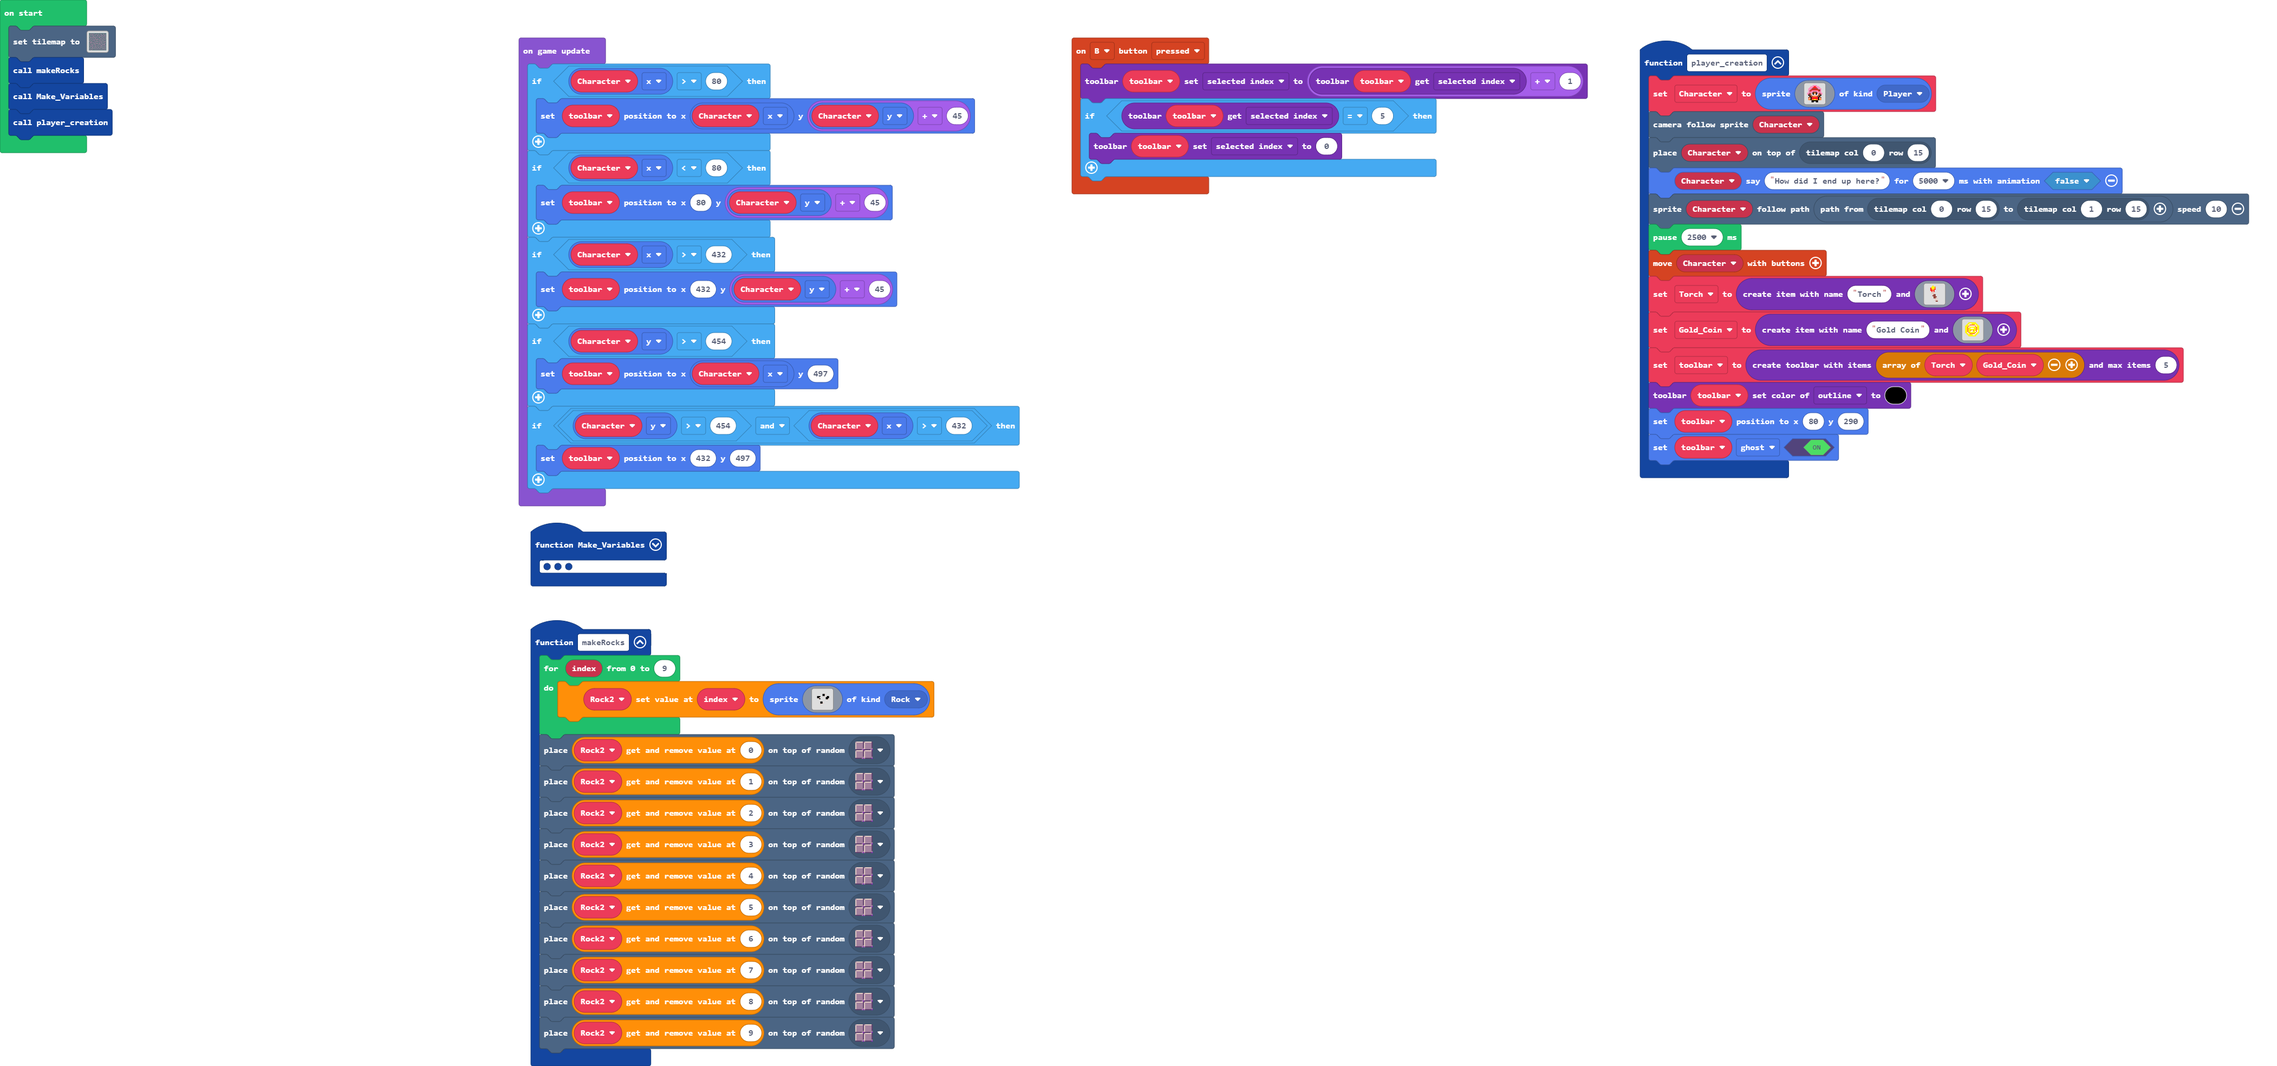
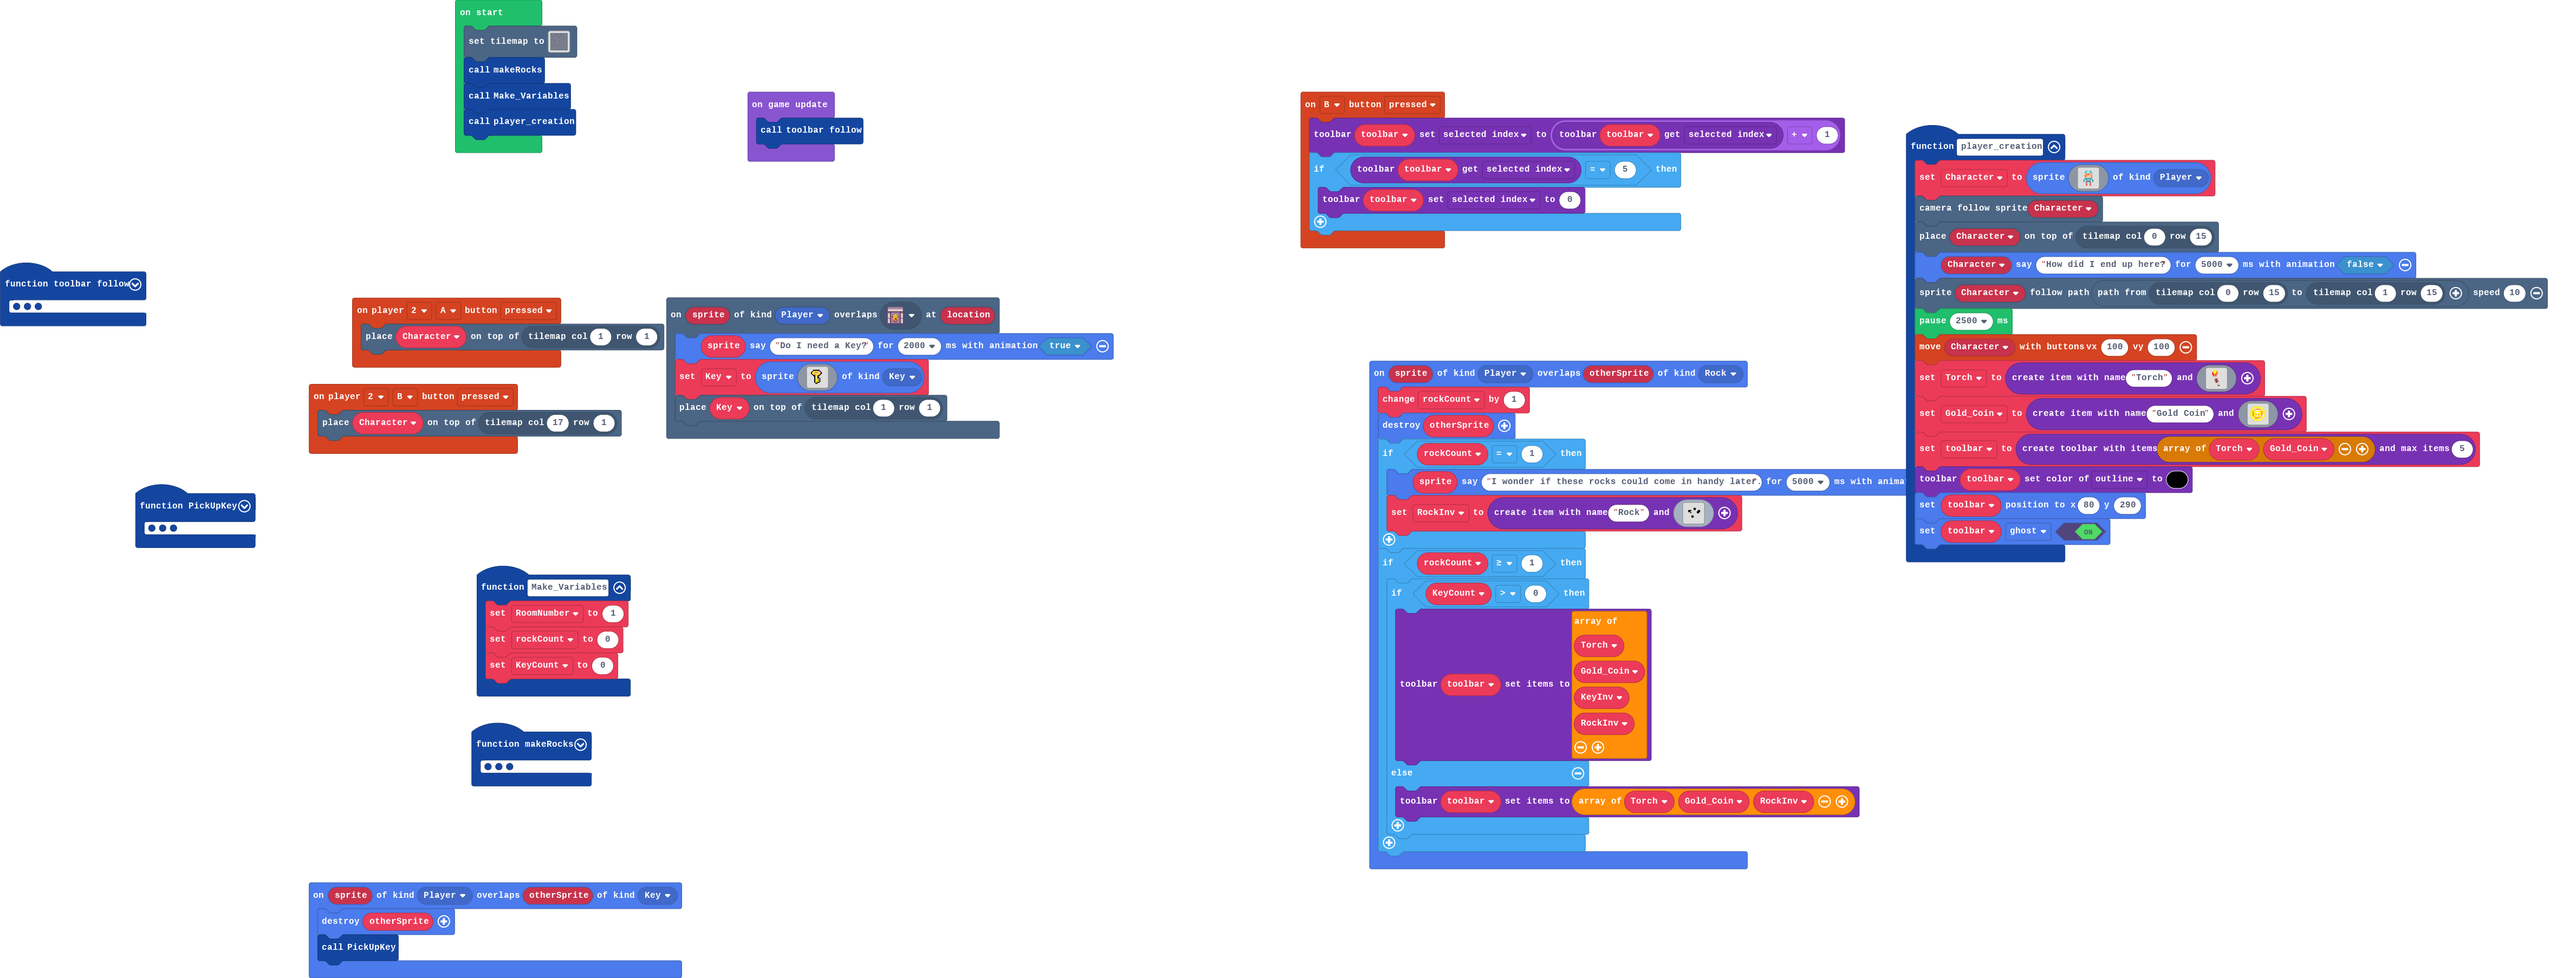
First Door Is making the key.

diff --git a/tilemap.g.ts b/tilemap.g.ts
@@ -62,8 +62,27 @@ namespace myTiles {
 . . . . . . . . . . . . . . . . 
 . . . . . . . . . . . . . . . . 
 `, [myTiles.transparency16], TileScale.Sixteen);
+            case "level5":
+            case "level5":return tiles.createTilemap(hex`1000100000000000000000000000000000000000000000000000000000000000000000000000000000000000000000000000000000000000000000000000000000000000000000000000000000000000000000000000000000000000000000000000000000000000000000000000000000000000000000000000000000000000000000000000000000000000000000000000000000000000000000000000000000000000000000000000000000000000000000000000000000000000000000000000000000000000000000000000000000000000000000000000000000000000000000000000000000000000000000000000000000000000000000000000000000000000`, img`
+. . . . . . . . . . . . . . . . 
+. . . . . . . . . . . . . . . . 
+. . . . . . . . . . . . . . . . 
+. . . . . . . . . . . . . . . . 
+. . . . . . . . . . . . . . . . 
+. . . . . . . . . . . . . . . . 
+. . . . . . . . . . . . . . . . 
+. . . . . . . . . . . . . . . . 
+. . . . . . . . . . . . . . . . 
+. . . . . . . . . . . . . . . . 
+. . . . . . . . . . . . . . . . 
+. . . . . . . . . . . . . . . . 
+. . . . . . . . . . . . . . . . 
+. . . . . . . . . . . . . . . . 
+. . . . . . . . . . . . . . . . 
+. . . . . . . . . . . . . . . . 
+`, [], -Infinity);
             case "level4":
[2 lines of base64/hex data omitted]
 22222222222222222.22222222222222
 2...........2...2.2.....2....2.2
 222.222.22222.222.22222.222.22.2
@@ -96,26 +115,7 @@ namespace myTiles {
 2.22222.2222222222222222222222.2
 2.......2......................2
 2222.222222222222222222222222222
-`, [myTiles.transparency16,sprites.dungeon.greenOuterNorthWest,sprites.dungeon.greenOuterWest0,sprites.dungeon.stairEast,sprites.dungeon.greenOuterSouthEast,sprites.dungeon.greenOuterNorth0,sprites.dungeon.floorDark3,sprites.dungeon.floorDark0,sprites.dungeon.floorDark1,sprites.dungeon.greenOuterNorth1,sprites.dungeon.greenOuterSouth1,sprites.dungeon.floorDark2,sprites.dungeon.greenOuterSouth0,sprites.dungeon.greenOuterNorthEast,sprites.dungeon.greenOuterEast0,sprites.dungeon.greenInnerSouthWest,sprites.dungeon.floorDark5,sprites.dungeon.greenInnerNorthWest,sprites.dungeon.floorDarkDiamond,sprites.dungeon.greenOuterWest1,sprites.dungeon.greenInnerSouthEast,sprites.dungeon.greenOuterSouthWest,sprites.dungeon.doorLockedSouth,sprites.dungeon.greenInnerNorthEast,sprites.dungeon.doorLockedNorth,sprites.dungeon.doorLockedEast], TileScale.Sixteen);
-            case "level5":
-            case "level5":return tiles.createTilemap(hex`1000100000000000000000000000000000000000000000000000000000000000000000000000000000000000000000000000000000000000000000000000000000000000000000000000000000000000000000000000000000000000000000000000000000000000000000000000000000000000000000000000000000000000000000000000000000000000000000000000000000000000000000000000000000000000000000000000000000000000000000000000000000000000000000000000000000000000000000000000000000000000000000000000000000000000000000000000000000000000000000000000000000000000000000000000000000000000`, img`
-. . . . . . . . . . . . . . . . 
-. . . . . . . . . . . . . . . . 
-. . . . . . . . . . . . . . . . 
-. . . . . . . . . . . . . . . . 
-. . . . . . . . . . . . . . . . 
-. . . . . . . . . . . . . . . . 
-. . . . . . . . . . . . . . . . 
-. . . . . . . . . . . . . . . . 
-. . . . . . . . . . . . . . . . 
-. . . . . . . . . . . . . . . . 
-. . . . . . . . . . . . . . . . 
-. . . . . . . . . . . . . . . . 
-. . . . . . . . . . . . . . . . 
-. . . . . . . . . . . . . . . . 
-. . . . . . . . . . . . . . . . 
-. . . . . . . . . . . . . . . . 
-`, [], -Infinity);
+`, [myTiles.transparency16,sprites.dungeon.greenOuterNorthWest,sprites.dungeon.greenOuterWest0,sprites.dungeon.stairEast,sprites.dungeon.greenOuterSouthEast,sprites.dungeon.greenOuterNorth0,sprites.dungeon.floorDark3,sprites.dungeon.floorDark0,sprites.dungeon.floorDark1,sprites.dungeon.greenOuterNorth1,sprites.dungeon.greenOuterSouth1,sprites.dungeon.floorDark2,sprites.dungeon.greenOuterSouth0,sprites.dungeon.greenOuterNorthEast,sprites.dungeon.greenOuterEast0,sprites.dungeon.greenInnerSouthWest,sprites.dungeon.floorDark5,sprites.dungeon.greenInnerNorthWest,sprites.dungeon.floorDarkDiamond,sprites.dungeon.greenOuterWest1,sprites.dungeon.greenInnerSouthEast,sprites.dungeon.greenOuterSouthWest,sprites.dungeon.doorLockedSouth,sprites.dungeon.greenInnerNorthEast,sprites.dungeon.doorLockedNorth,sprites.dungeon.doorLockedEast,sprites.dungeon.floorDark4], TileScale.Sixteen);
         }
         return null;
     })

diff --git a/main.ts b/main.ts
@@ -1,31 +1,117 @@
 namespace SpriteKind {
     export const Rock = SpriteKind.create()
+    export const Key = SpriteKind.create()
+}
+scene.onOverlapTile(SpriteKind.Player, sprites.dungeon.doorLockedNorth, function (sprite, location) {
+    sprite.sayText("Do I need a Key?", 2000, true)
+    Key = sprites.create(img`
+        . . . . . . . . . . . . . . . . 
+        . . . . f f f f f f . . . . . . 
+        . . . f 5 5 5 5 d d f . . . . . 
+        . . f 5 5 4 4 4 4 5 d f . . . . 
+        . . f 5 5 . . . . 5 4 f . . . . 
+        . . . f 4 4 4 5 5 4 f . . . . . 
+        . . . . f f 5 5 f f . . . . . . 
+        . . . . . f 5 d f . . . . . . . 
+        . . . . . f 5 d f f . . . . . . 
+        . . . . . f 5 5 d d f . . . . . 
+        . . . . . f 5 5 4 f . . . . . . 
+        . . . . . f 5 5 5 d f . . . . . 
+        . . . . . f 5 4 f f . . . . . . 
+        . . . . . . f f . . . . . . . . 
+        . . . . . . . . . . . . . . . . 
+        . . . . . . . . . . . . . . . . 
+        `, SpriteKind.Key)
+    tiles.placeOnTile(Key, tiles.getTileLocation(1, 1))
+})
+function PickUpKey () {
+    KeyInv = Inventory.create_item("Key", img`
+        . . . . . . . . . . . . . . . . 
+        . . . . f f f f f f . . . . . . 
+        . . . f 5 5 5 5 d d f . . . . . 
+        . . f 5 5 4 4 4 4 5 d f . . . . 
+        . . f 5 5 . . . . 5 4 f . . . . 
+        . . . f 4 4 4 5 5 4 f . . . . . 
+        . . . . f f 5 5 f f . . . . . . 
+        . . . . . f 5 d f . . . . . . . 
+        . . . . . f 5 d f f . . . . . . 
+        . . . . . f 5 5 d d f . . . . . 
+        . . . . . f 5 5 4 f . . . . . . 
+        . . . . . f 5 5 5 d f . . . . . 
+        . . . . . f 5 4 f f . . . . . . 
+        . . . . . . f f . . . . . . . . 
+        . . . . . . . . . . . . . . . . 
+        . . . . . . . . . . . . . . . . 
+        `)
+    if (KeyCount < 1) {
+        if (rockCount > 0) {
+            toolbar.set_items([
+            Torch,
+            Gold_Coin,
+            RockInv,
+            KeyInv
+            ])
+        } else {
+            toolbar.set_items([Torch, Gold_Coin, KeyInv])
+        }
+    }
+    KeyCount += 1
+}
+controller.player2.onButtonEvent(ControllerButton.B, ControllerButtonEvent.Pressed, function () {
+    tiles.placeOnTile(Character, tiles.getTileLocation(17, 1))
+})
+function toolbar_follow () {
+    if (Character.x > 80) {
+        toolbar.setPosition(Character.x, Character.y + 45)
+    }
+    if (Character.x < 80) {
+        toolbar.setPosition(80, Character.y + 45)
+    }
+    if (Character.x > 432) {
+        toolbar.setPosition(432, Character.y + 45)
+    }
+    if (Character.y > 454) {
+        toolbar.setPosition(Character.x, 497)
+    }
+    if (Character.y < 60) {
+        toolbar.setPosition(Character.x, 105)
+    }
+    if (Character.y > 454 && Character.x > 432) {
+        toolbar.setPosition(432, 497)
+    }
+    if (Character.x < 80 && Character.y > 454) {
+        toolbar.setPosition(80, 497)
+    }
+    if (Character.x < 80 && Character.y < 60) {
+        toolbar.setPosition(80, 105)
+    }
+    if (Character.x > 432 && Character.y < 60) {
+        toolbar.setPosition(432, 105)
+    }
 }
 function player_creation () {
     Character = sprites.create(img`
-        . . . . . . 3 3 3 3 . . . . . . 
-        . . . . 3 3 3 2 2 3 3 3 . . . . 
-        . . . 3 3 3 2 2 2 2 3 3 3 . . . 
-        . . 3 3 3 e e e e e e 3 3 3 . . 
-        . . 3 3 e 2 2 2 2 2 2 e e 3 . . 
-        . . 3 e 2 3 3 3 3 3 3 2 e 3 . . 
-        . . 3 3 3 3 e e e e 3 3 3 3 . . 
-        . 3 3 e 3 b f 4 4 f b 3 e 3 3 . 
-        . 3 e e 4 1 f d d f 1 4 e e 3 . 
-        . . f e e d d d d d d e e f . . 
-        . . . f e e 4 4 4 4 e e f . . . 
-        . . e 4 f 2 2 2 2 2 2 f 4 e . . 
-        . . 4 d f 2 2 2 2 2 2 f d 4 . . 
-        . . 4 4 f 4 4 5 5 4 4 f 4 4 . . 
-        . . . . . f f f f f f . . . . . 
-        . . . . . f f . . f f . . . . . 
+        . . . . . . . . . . . . . . 
+        . . . . . 6 9 9 6 . . . . . 
+        . . . . 6 9 9 9 9 6 . . . . 
+        . . . . 9 4 4 4 4 9 . . . . 
+        . . . d 4 4 4 4 d 4 d . . . 
+        . . . d 4 4 d d d 4 d . . . 
+        . . . . 4 d d d d 4 . . . . 
+        . . . . 6 6 6 6 6 6 . . . . 
+        . . . 6 9 6 9 9 6 9 6 . . . 
+        . . . 6 9 b e e b 9 6 . . . 
+        . . . d d e 9 9 e d d . . . 
+        . . . . . b . . b . . . . . 
+        . . . . . 2 . . 2 . . . . . 
+        . . . . . . . . . . . . . . 
         `, SpriteKind.Player)
     scene.cameraFollowSprite(Character)
     tiles.placeOnTile(Character, tiles.getTileLocation(0, 15))
     Character.sayText("How did I end up here?", 5000, false)
     scene.followPath(Character, scene.aStar(tiles.getTileLocation(0, 15), tiles.getTileLocation(1, 15)), 10)
     pause(2500)
-    controller.moveSprite(Character)
+    controller.moveSprite(Character, 100, 100)
     Torch = Inventory.create_item("Torch", assets.image`Torch`)
     Gold_Coin = Inventory.create_item("Gold Coin", assets.image`myImage`)
     toolbar = Inventory.create_toolbar([Torch, Gold_Coin], 5)
@@ -55,32 +141,52 @@ function makeRocks () {
     tiles.placeOnRandomTile(Rock2.removeAt(8), sprites.dungeon.floorDark0)
     tiles.placeOnRandomTile(Rock2.removeAt(9), sprites.dungeon.floorDark0)
 }
+controller.player2.onButtonEvent(ControllerButton.A, ControllerButtonEvent.Pressed, function () {
+    tiles.placeOnTile(Character, tiles.getTileLocation(1, 1))
+})
+sprites.onOverlap(SpriteKind.Player, SpriteKind.Key, function (sprite, otherSprite) {
+    otherSprite.destroy()
+    PickUpKey()
+})
+sprites.onOverlap(SpriteKind.Player, SpriteKind.Rock, function (sprite, otherSprite) {
+    rockCount += 1
+    otherSprite.destroy()
+    if (rockCount == 1) {
+        sprite.sayText("I wonder if these rocks could come in handy later.", 5000, true)
+        RockInv = Inventory.create_item("Rock", assets.image`Rocks`)
+    }
+    if (rockCount >= 1) {
+        if (KeyCount > 0) {
+            toolbar.set_items([
+            Torch,
+            Gold_Coin,
+            KeyInv,
+            RockInv
+            ])
+        } else {
+            toolbar.set_items([Torch, Gold_Coin, RockInv])
+        }
+    }
+})
 function Make_Variables () {
     RoomNumber = 1
+    rockCount = 0
+    KeyCount = 0
 }
 let RoomNumber = 0
-let toolbar: Inventory.Toolbar = null
+let Character: Sprite = null
+let RockInv: Inventory.Item = null
 let Gold_Coin: Inventory.Item = null
 let Torch: Inventory.Item = null
-let Character: Sprite = null
+let toolbar: Inventory.Toolbar = null
+let rockCount = 0
+let KeyCount = 0
+let KeyInv: Inventory.Item = null
+let Key: Sprite = null
 tiles.setTilemap(tilemap`level4`)
 makeRocks()
 Make_Variables()
 player_creation()
 game.onUpdate(function () {
-    if (Character.x > 80) {
-        toolbar.setPosition(Character.x, Character.y + 45)
-    }
-    if (Character.x < 80) {
-        toolbar.setPosition(80, Character.y + 45)
-    }
-    if (Character.x > 432) {
-        toolbar.setPosition(432, Character.y + 45)
-    }
-    if (Character.y > 454) {
-        toolbar.setPosition(Character.x, 497)
-    }
-    if (Character.y > 454 && Character.x > 432) {
-        toolbar.setPosition(432, 497)
-    }
+    toolbar_follow()
 })
